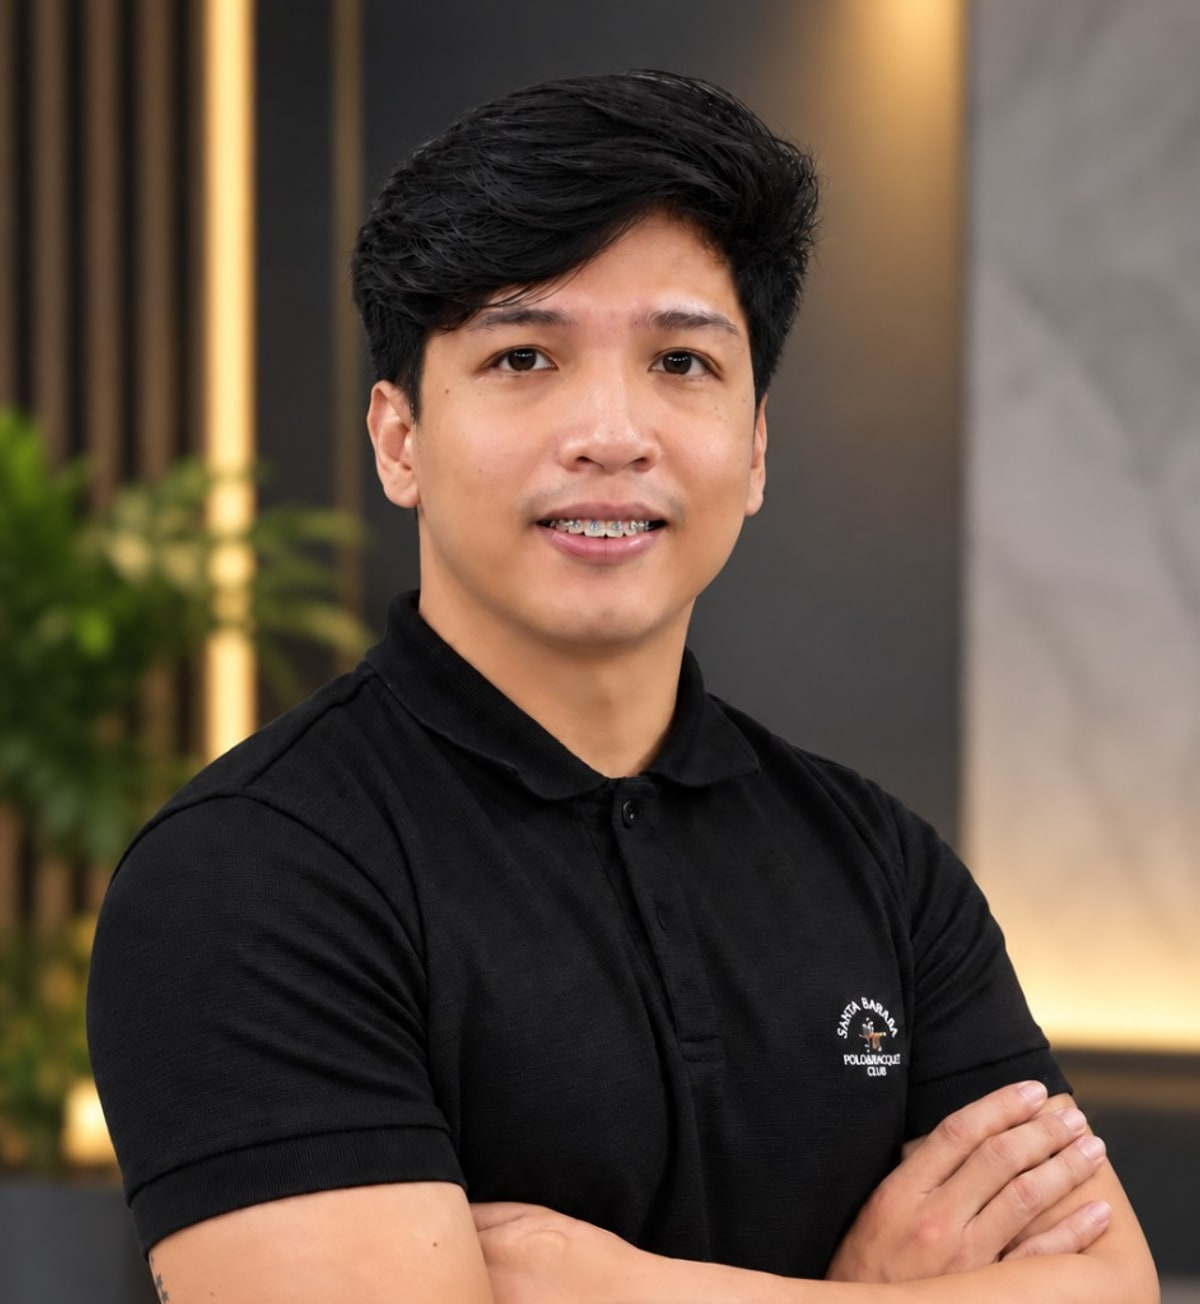
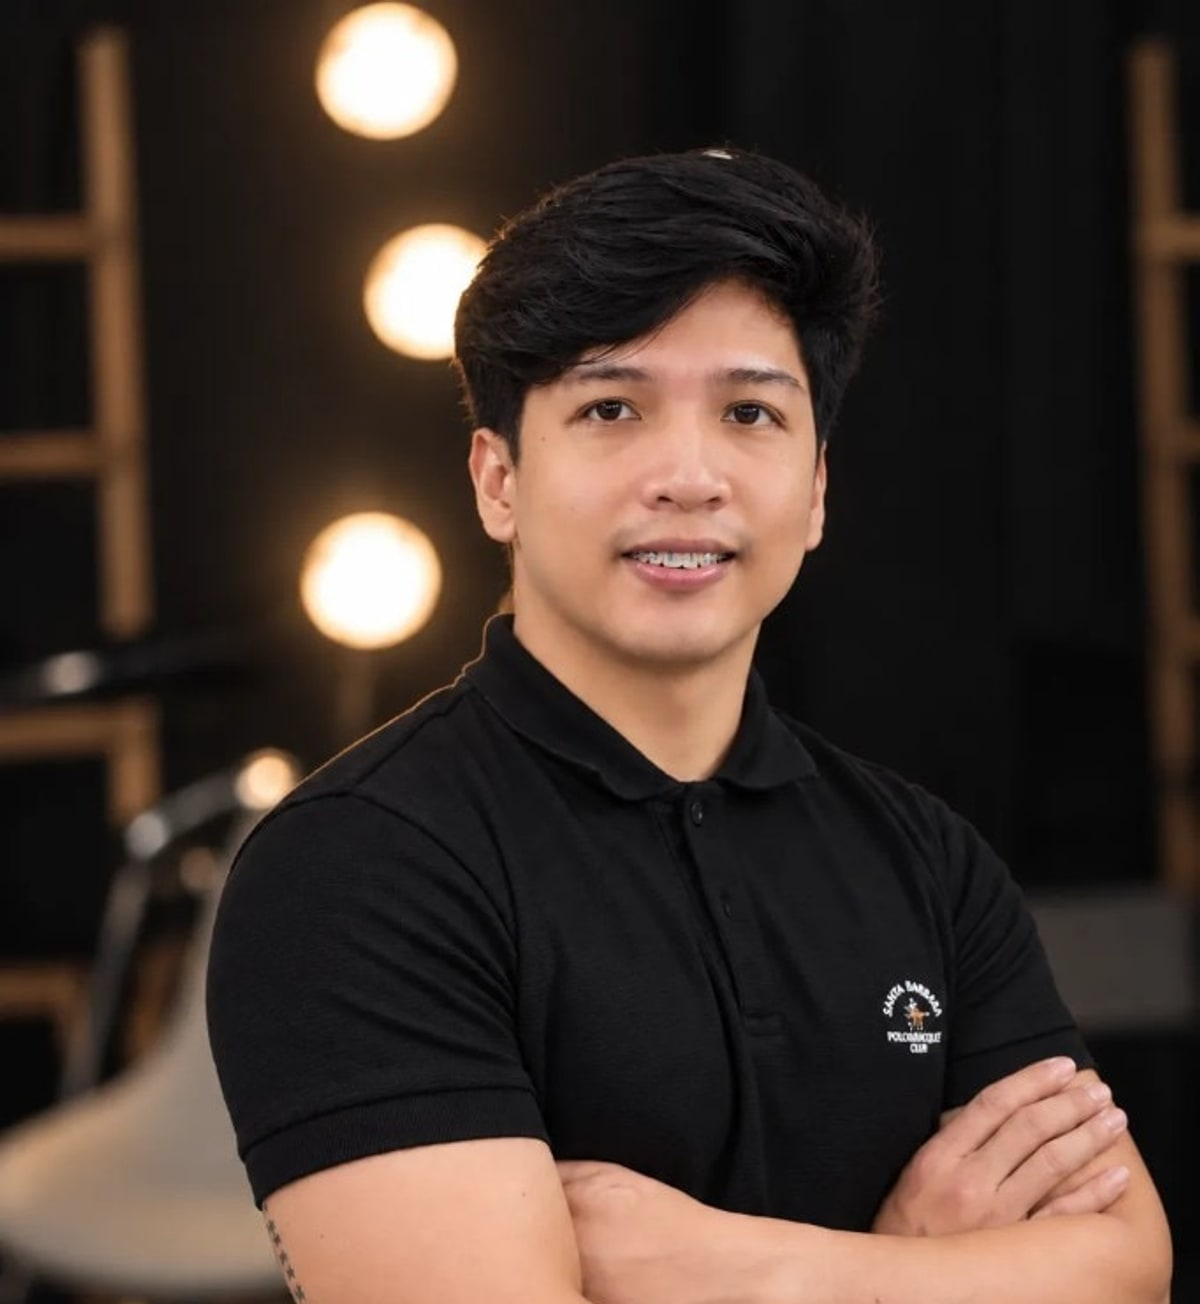
Use the wide studio shot on desktop and the portrait on mobile.

diff --git a/app/globals.css b/app/globals.css
@@ -211,41 +211,16 @@ h3,
 .magazine-portrait {
   isolation: isolate;
   z-index: 1;
-  background: #14161c;
+  background: #0a0a0c;
   clip-path: polygon(0 1.5%, 100% 0, 100% 100%, 0 98.5%);
   box-shadow: -1.25rem 1.5rem 3.5rem rgba(0, 0, 0, 0.38);
 }
 
-.magazine-portrait-field {
-  pointer-events: none;
-  position: absolute;
-  inset: 0;
-  z-index: 0;
-  background:
-    radial-gradient(
-      ellipse 42% 58% at 50% 38%,
-      rgba(210, 198, 178, 0.3),
-      transparent 68%
-    ),
-    radial-gradient(
-      ellipse 70% 50% at 78% 55%,
-      rgba(79, 142, 255, 0.16),
-      transparent 62%
-    ),
-    radial-gradient(
-      ellipse 80% 70% at 50% 100%,
-      rgba(5, 5, 7, 0.58),
-      transparent 55%
-    ),
-    linear-gradient(180deg, #1c1e26 0%, #12141a 48%, #0c0d12 100%);
-  animation: portrait-field-drift 18s ease-in-out infinite;
-}
-
 .magazine-portrait-img {
   z-index: 1;
-  object-fit: contain;
+  object-fit: cover;
   object-position: center center;
-  filter: contrast(1.16) saturate(0.94) brightness(0.88);
+  filter: contrast(1.08) saturate(0.96) brightness(0.94);
 }
 
 .magazine-portrait-glow {
@@ -253,7 +228,7 @@ h3,
   position: absolute;
   inset: 0;
   z-index: 1;
-  opacity: 0.18;
+  opacity: 0.08;
   background: radial-gradient(
     ellipse 52% 44% at 48% 28%,
     rgba(255, 232, 208, 1),
@@ -403,12 +378,12 @@ h3,
   .magazine-portrait {
     width: 100%;
     height: 100%;
-    background: #14161c;
+    background: #0a0a0c;
     clip-path: polygon(3% 0, 100% 0, 100% 100%, 0 100%);
   }
 
   .magazine-portrait-img {
-    object-fit: contain;
+    object-fit: cover;
     object-position: center center;
     filter: none;
   }
@@ -1959,16 +1934,6 @@ h3,
   }
 }
 
-@keyframes portrait-field-drift {
-  0%,
-  100% {
-    transform: translate(0, 0) scale(1);
-  }
-  50% {
-    transform: translate(1.1%, -0.7%) scale(1.035);
-  }
-}
-
 @keyframes cover-grid-drift {
   from {
     transform: translate3d(0, 0, 0);
@@ -2046,8 +2011,7 @@ h3,
   .magazine-cover-grid,
   .magazine-cover-scan,
   .magazine-cover .magazine-register-mark,
-  .magazine-plate-enter,
-  .magazine-portrait-field {
+  .magazine-plate-enter {
     animation: none;
     translate: none;
   }

diff --git a/components/home/home-hero.tsx b/components/home/home-hero.tsx
@@ -296,17 +296,28 @@ export function HomeHero() {
                 Cover portrait · 01
               </p>
               <div className="magazine-portrait magazine-scan relative aspect-[3/4] w-full overflow-hidden lg:aspect-auto lg:h-full lg:w-full lg:min-h-0">
-                <span className="magazine-portrait-field" aria-hidden />
+                <Image
+                  src={person.photoMobile}
+                  alt={person.imageAlt}
+                  fill
+                  priority
+                  sizes="(max-width: 1023px) min(92vw, calc(11rem + 48vw)), 1px"
+                  className={`magazine-portrait-img boot-asset lg:hidden ${
+                    reduce
+                      ? ""
+                      : "transition-transform duration-700 ease-out group-hover:scale-[1.03]"
+                  }`}
+                />
                 <Image
                   src={person.photo}
                   alt={person.imageAlt}
                   fill
                   priority
-                  sizes="(max-width: 1023px) min(92vw, calc(11rem + 48vw)), 58vw"
-                  className={`magazine-portrait-img boot-asset ${
+                  sizes="(min-width: 1024px) 58vw, 1px"
+                  className={`magazine-portrait-img boot-asset hidden lg:block ${
                     reduce
                       ? ""
-                      : "transition-transform duration-700 ease-out group-hover:scale-[1.03] lg:group-hover:scale-100"
+                      : "transition-transform duration-700 ease-out lg:group-hover:scale-100"
                   }`}
                 />
                 {reduce ? null : (

diff --git a/content/person.ts b/content/person.ts
@@ -91,6 +91,7 @@ export const person = {
   url: SITE_URL,
   image: `${SITE_URL}/assets/al-andrew-paul-beltran.jpg`,
   photo: "/assets/al-beltran-software-engineer.webp",
+  photoMobile: "/assets/al-beltran-software-engineer-mobile.webp",
   portrait: "/assets/al-andrew-paul-beltran.jpg",
   profilePhoto: "/assets/al-beltran-profile.jpg",
   imageWidth: 1200,
